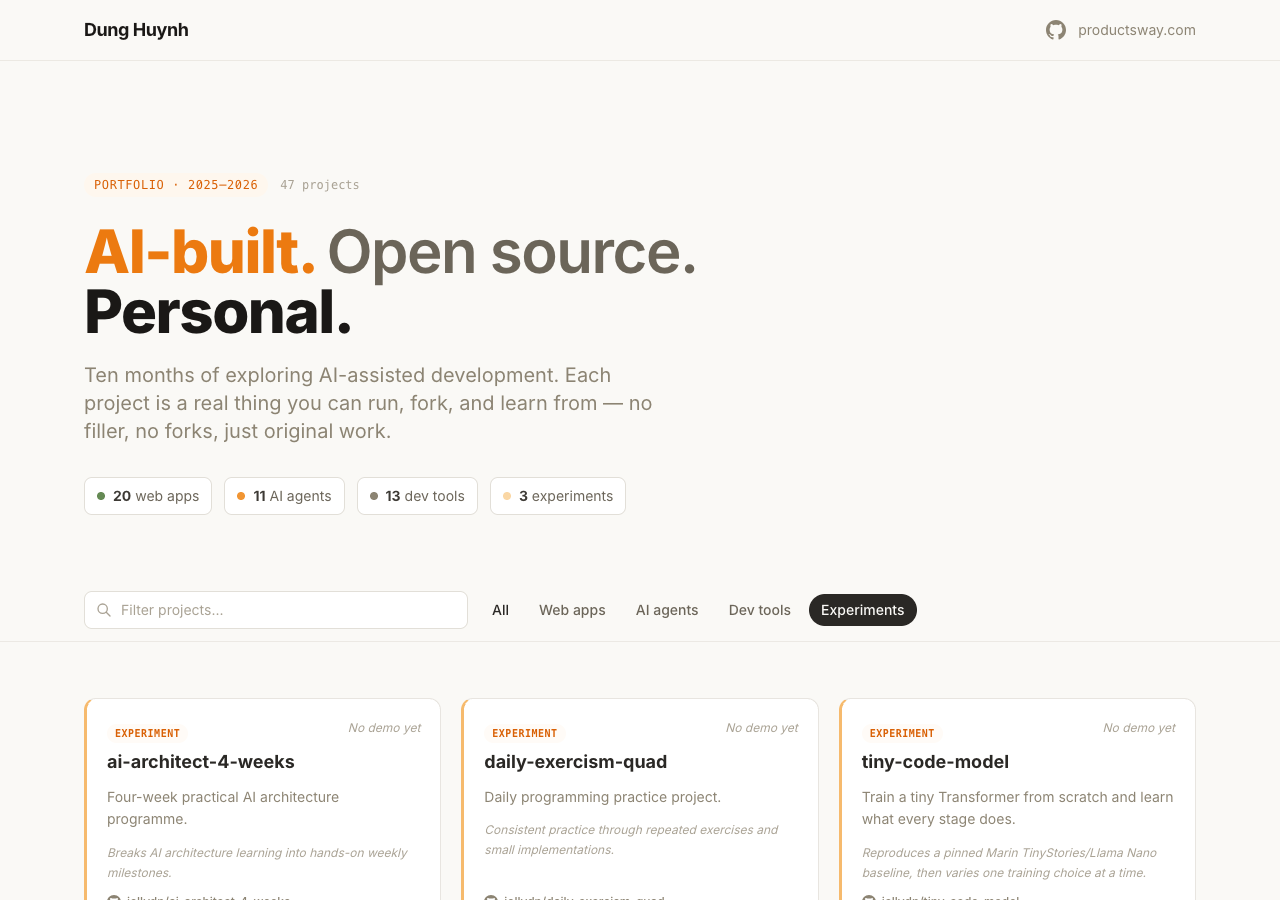
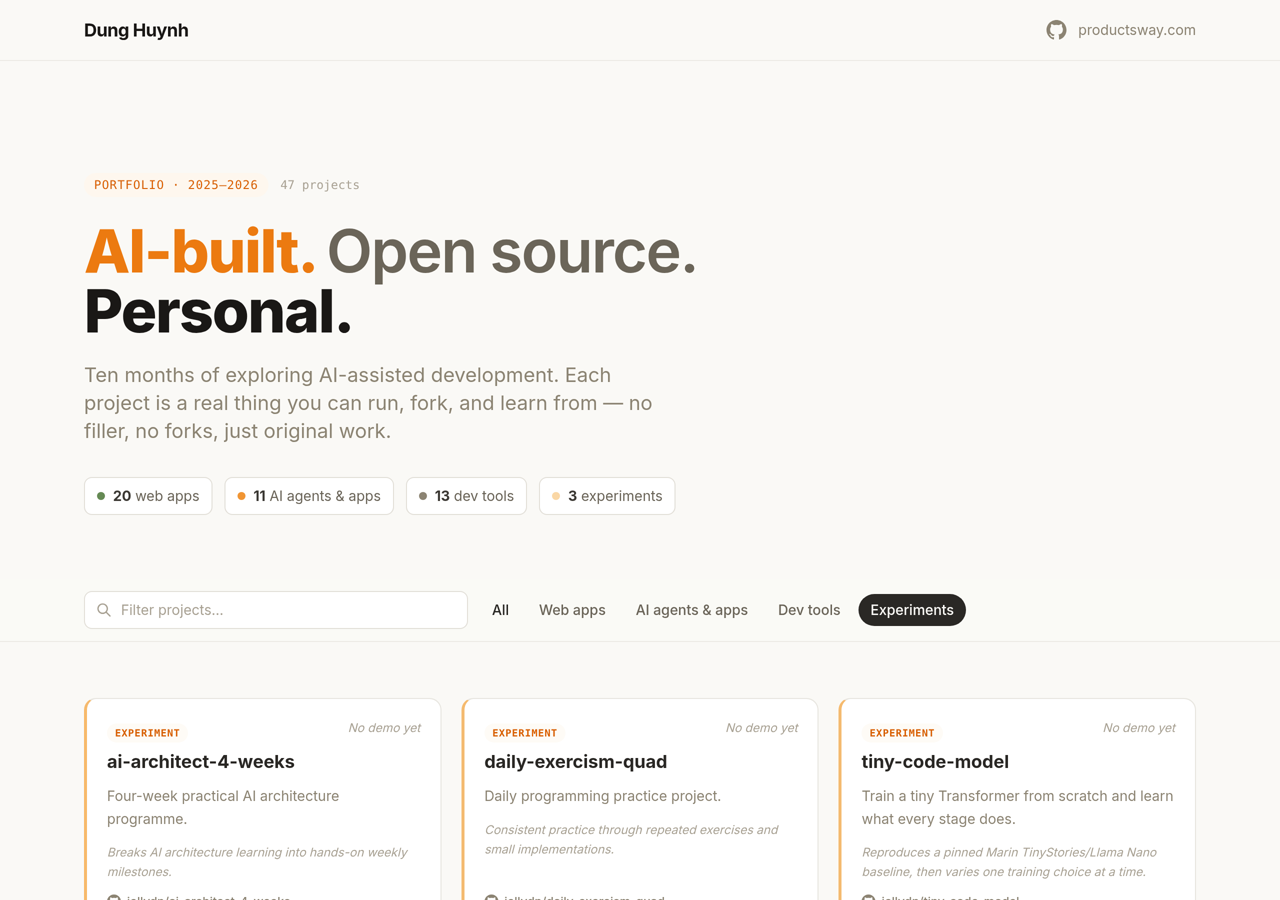
fix(catalog): align labels, walkthroughs, and rendered assets
Include AI apps in the category label without changing catalog records.
Correct the README count and clear retained filters in the demo steps.
Render deferred content before capturing static assets, verify image
bounds, and link the catalog source commit in the changelog.
Keep the explicit muse-frame WIP exception and historical search GIF.

Amp-Thread-ID: https://ampcode.com/threads/T-01a093a0-c7e7-77cf-9eb9-fceb67705bbf

diff --git a/showcase/features.html b/showcase/features.html
@@ -131,11 +131,11 @@
     <div class="feature-row reversed">
       <div class="feature-body">
         <h3>Four categories, one click each</h3>
-        <p class="lead">Every project lives in exactly one of four buckets — so "show me the AI agents" is a single click, not a puzzle.</p>
+        <p class="lead">Every project lives in exactly one of four buckets — so "show me the AI agents and apps" is a single click, not a puzzle.</p>
         <p>The collection is balanced across the ways people actually explore AI: user-facing apps you can try today, agents that do work for you, developer tools that make your editor smarter, and learning projects that show their work.</p>
         <ul class="tick-list">
           <li><svg fill="none" stroke="currentColor" stroke-width="2.5" viewBox="0 0 24 24"><path stroke-linecap="round" stroke-linejoin="round" d="M5 13l4 4L19 7"/></svg><strong>20 web apps</strong> — real, usable products</li>
-          <li><svg fill="none" stroke="currentColor" stroke-width="2.5" viewBox="0 0 24 24"><path stroke-linecap="round" stroke-linejoin="round" d="M5 13l4 4L19 7"/></svg><strong>11 AI agents</strong> — agents, providers & launchers</li>
+          <li><svg fill="none" stroke="currentColor" stroke-width="2.5" viewBox="0 0 24 24"><path stroke-linecap="round" stroke-linejoin="round" d="M5 13l4 4L19 7"/></svg><strong>11 AI agents &amp; apps</strong> — agents, providers, launchers &amp; image studios</li>
           <li><svg fill="none" stroke="currentColor" stroke-width="2.5" viewBox="0 0 24 24"><path stroke-linecap="round" stroke-linejoin="round" d="M5 13l4 4L19 7"/></svg><strong>13 dev tools</strong> — editors, CLIs & plugins</li>
           <li><svg fill="none" stroke="currentColor" stroke-width="2.5" viewBox="0 0 24 24"><path stroke-linecap="round" stroke-linejoin="round" d="M5 13l4 4L19 7"/></svg><strong>3 experiments</strong> — learning in the open</li>
         </ul>
@@ -144,9 +144,9 @@
         <div class="browser-frame">
           <div class="browser-frame-bar">
             <span class="browser-frame-dot"></span><span class="browser-frame-dot"></span><span class="browser-frame-dot"></span>
-            <span class="browser-frame-url">filter: AI agents</span>
+            <span class="browser-frame-url">filter: AI agents &amp; apps</span>
           </div>
-          <img src="screenshots/filter-ai.png" alt="The tracker filtered to the 11 AI agent projects" loading="lazy" width="1280" height="900">
+          <img src="screenshots/filter-ai.png" alt="The tracker filtered to the 11 AI-agent and AI-app projects" loading="lazy" width="1280" height="900">
         </div>
       </div>
     </div>
@@ -220,7 +220,7 @@
     <!-- AI agents -->
     <div class="category">
       <div class="category-head">
-        <span class="chip chip-ai">AI agents</span>
+        <span class="chip chip-ai">AI agents &amp; apps</span>
         <h3>11</h3>
         <span class="count">— agents, providers, launchers & memory</span>
       </div>
@@ -240,9 +240,9 @@
       <div class="browser-frame">
         <div class="browser-frame-bar">
           <span class="browser-frame-dot"></span><span class="browser-frame-dot"></span><span class="browser-frame-dot"></span>
-          <span class="browser-frame-url">filter: AI agents</span>
+          <span class="browser-frame-url">filter: AI agents &amp; apps</span>
         </div>
-        <img src="screenshots/filter-ai.png" alt="The tracker filtered to AI agents" loading="lazy" width="1280" height="900">
+        <img src="screenshots/filter-ai.png" alt="The tracker filtered to AI agents and apps" loading="lazy" width="1280" height="900">
       </div>
     </div>
 

diff --git a/showcase/how-it-works.html b/showcase/how-it-works.html
@@ -109,7 +109,7 @@
       <div class="workflow-body">
         <div class="step-num">1</div>
         <h3>Open the collection</h3>
-        <p>Land on the tracker and the full catalogue is right there — 47 projects, one glance, no login, no paywall. The header stat chips tell you the shape of the collection at a glance: <strong>20 web apps · 11 AI agents · 13 dev tools · 3 experiments</strong>.</p>
+        <p>Land on the tracker and the full catalogue is right there — 47 projects, one glance, no login, no paywall. The header stat chips tell you the shape of the collection at a glance: <strong>20 web apps · 11 AI agents &amp; apps · 13 dev tools · 3 experiments</strong>.</p>
         <p>The search box and filter pills stay pinned while you scroll, so the whole collection is always one interaction away.</p>
       </div>
       <div class="workflow-media">
@@ -118,7 +118,7 @@
             <span class="browser-frame-dot"></span><span class="browser-frame-dot"></span><span class="browser-frame-dot"></span>
             <span class="browser-frame-url">jellydn.github.io/personal-ai</span>
           </div>
-          <img src="screenshots/hero-web.jpg" alt="The full project grid of the personal-ai tracker — the whole collection in one glance" fetchpriority="high" width="1200" height="4941">
+          <img src="screenshots/hero-web.jpg" alt="The full project grid of the personal-ai tracker — the whole collection in one glance" fetchpriority="high" width="1200" height="4934">
         </div>
       </div>
     </div>
@@ -128,16 +128,16 @@
       <div class="workflow-body">
         <div class="step-num">2</div>
         <h3>Filter to what you care about</h3>
-        <p>Click <strong>AI agents</strong> and 11 agent projects appear — coding agents, provider plugins, launchers, image studios, and memory tools. Click <strong>Web apps</strong> and you get the products you can actually use today.</p>
+        <p>Click <strong>AI agents &amp; apps</strong> and 11 projects appear — coding agents, provider plugins, launchers, image studios, and memory tools. Click <strong>Web apps</strong> and you get the products you can actually use today.</p>
         <p>Each filter re-renders instantly. There's no separate page to load, no URL to remember — the grid just becomes the answer.</p>
       </div>
       <div class="workflow-media">
         <div class="browser-frame">
           <div class="browser-frame-bar">
             <span class="browser-frame-dot"></span><span class="browser-frame-dot"></span><span class="browser-frame-dot"></span>
-            <span class="browser-frame-url">filter: AI agents</span>
+            <span class="browser-frame-url">filter: AI agents &amp; apps</span>
           </div>
-          <img src="screenshots/filter-ai.png" alt="Filtering the tracker to AI agents" loading="lazy" width="1280" height="900">
+          <img src="screenshots/filter-ai.png" alt="Filtering the tracker to AI agents and apps" loading="lazy" width="1280" height="900">
         </div>
       </div>
     </div>
@@ -191,7 +191,7 @@
       <div class="workflow-media">
         <div class="phone-frame">
           <div class="phone-frame-notch"></div>
-          <img src="screenshots/mobile-web.jpg" alt="The personal-ai tracker on a phone, showing the responsive layout" loading="lazy" width="520" height="11082">
+          <img src="screenshots/mobile-web.jpg" alt="The personal-ai tracker in a narrow browser viewport, showing the responsive layout" loading="lazy" width="520" height="11097">
         </div>
       </div>
     </div>

diff --git a/showcase/index.html b/showcase/index.html
@@ -214,7 +214,7 @@
             <span class="browser-frame-dot"></span><span class="browser-frame-dot"></span><span class="browser-frame-dot"></span>
             <span class="browser-frame-url">github.com/jellydn/personal-ai</span>
           </div>
-          <img src="screenshots/demo/portfolio.png" alt="The personal-ai portfolio homepage showing a grid of 47 AI-built project cards" loading="lazy" width="1280" height="4941">
+          <img src="screenshots/demo/portfolio.png" alt="The personal-ai portfolio homepage showing a grid of 47 AI-built project cards" loading="lazy" width="1280" height="4934">
         </div>
         <figcaption class="gallery-caption">The tracker — 47 projects, one searchable grid</figcaption>
       </figure>
@@ -224,7 +224,7 @@
             <span class="browser-frame-dot"></span><span class="browser-frame-dot"></span><span class="browser-frame-dot"></span>
             <span class="browser-frame-url">jellydn.github.io/personal-ai/showcase/</span>
           </div>
-          <img src="screenshots/demo/showcase-home.png" alt="The showcase marketing site homepage" loading="lazy" width="1280" height="11361">
+          <img src="screenshots/demo/showcase-home.png" alt="The showcase marketing site homepage" loading="lazy" width="1280" height="17476">
         </div>
         <figcaption class="gallery-caption">Showcase home — the story in one scroll</figcaption>
       </figure>
@@ -234,7 +234,7 @@
             <span class="browser-frame-dot"></span><span class="browser-frame-dot"></span><span class="browser-frame-dot"></span>
             <span class="browser-frame-url">jellydn.github.io/personal-ai/showcase/how-it-works.html</span>
           </div>
-          <img src="screenshots/demo/how-it-works.png" alt="The how-it-works walkthrough page" loading="lazy" width="1280" height="7023">
+          <img src="screenshots/demo/how-it-works.png" alt="The how-it-works walkthrough page" loading="lazy" width="1280" height="16311">
         </div>
         <figcaption class="gallery-caption">How it works — the full journey, step by step</figcaption>
       </figure>
@@ -244,7 +244,7 @@
             <span class="browser-frame-dot"></span><span class="browser-frame-dot"></span><span class="browser-frame-dot"></span>
             <span class="browser-frame-url">jellydn.github.io/personal-ai/showcase/features.html</span>
           </div>
-          <img src="screenshots/demo/features.png" alt="The features deep-dive page" loading="lazy" width="1280" height="7870">
+          <img src="screenshots/demo/features.png" alt="The features deep-dive page" loading="lazy" width="1280" height="7891">
         </div>
         <figcaption class="gallery-caption">Features — every capability, explained</figcaption>
       </figure>

diff --git a/showcase/changelog.html b/showcase/changelog.html
@@ -107,21 +107,21 @@
     <div class="section-head">
       <span class="kicker">Ship log</span>
       <h2>Real changes, dated</h2>
-      <p>Newest first. Each entry records what actually landed, with the commit that shipped it — you can trace every line in the repository.</p>
+      <p>Newest first. Entries link to their source commits or describe a dated catalog refresh — you can trace the changes in the repository.</p>
     </div>
 
     <div class="changelog-list">
       <article class="changelog-entry">
         <div class="entry-meta">
           <span class="date-badge">2026-09-11</span>
-          <span class="entry-hash">catalog refresh</span>
+          <a class="entry-hash" href="https://github.com/jellydn/personal-ai/commit/ce1ba703eb8e1c44fc5de8fb7870d359d6e39bf3">ce1ba70</a>
         </div>
         <h3>Two AI apps and a kids' confidence app</h3>
         <ul>
           <li>Another dated pass over jellydn's GitHub: <strong>brave-buddy</strong> (a social-skills practice app for ages 6–12, with a live demo) joins web apps, while <strong>imagi</strong> (a native SwiftUI image studio) and <strong>muse-frame</strong> join AI apps.</li>
-          <li>The tracker is now 47 projects (20 web apps · 11 AI agents · 13 dev tools · 3 experiments) with 28 live demos. The window runs through September 2026.</li>
-          <li><strong>muse-frame</strong> was left out of the August pass as WIP and is listed now, alongside the other public originals.</li>
-          <li>Recaptured every showcase screenshot against the 47-project catalog — hero, the four filter views, both search states, the three full-page captures, the mobile/desktop full-page JPGs and the README shot — so the images match the counts they sit next to.</li>
+          <li>The tracker is now 47 projects (20 web apps · 11 AI agents &amp; apps · 13 dev tools · 3 experiments) with 28 live demos. The window runs through September 2026.</li>
+          <li><strong>muse-frame</strong> was left out of the August pass as WIP. It is now listed at the author's explicit request as an exception to that policy.</li>
+          <li>Recaptured the static showcase screenshots against the 47-project catalog — hero, the four filter views, both search states, four full-page PNGs, the mobile/desktop full-page JPGs and the README shot — so the images match the counts they sit next to. The older search animation is unchanged.</li>
           <li>Rebuilt the branded OG share card, which still carried the 40-project copy, and committed its layout as <code>docs/og-card.html</code> so it can be regenerated next time instead of recreated by hand.</li>
         </ul>
       </article>

diff --git a/index.html b/index.html
@@ -181,7 +181,7 @@ body { font-family: 'Inter', ui-sans-serif, system-ui, -apple-system, sans-serif
         </div>
         <div class="flex items-center gap-2 px-3 py-2 bg-white border border-ink-200 rounded-lg">
           <span class="w-2 h-2 rounded-full bg-ember-400"></span>
-          <span class="text-ink-600"><strong class="text-ink-800" data-cat="ai">11</strong> AI agents</span>
+          <span class="text-ink-600"><strong class="text-ink-800" data-cat="ai">11</strong> AI agents &amp; apps</span>
         </div>
         <div class="flex items-center gap-2 px-3 py-2 bg-white border border-ink-200 rounded-lg">
           <span class="w-2 h-2 rounded-full bg-ink-500"></span>
@@ -206,7 +206,7 @@ body { font-family: 'Inter', ui-sans-serif, system-ui, -apple-system, sans-serif
         <div class="flex gap-1.5 flex-wrap" id="filters">
           <button class="filter-pill active px-3 py-1.5 text-sm rounded-full font-medium" data-category="all">All</button>
           <button class="filter-pill px-3 py-1.5 text-sm rounded-full font-medium text-ink-600" data-category="web">Web apps</button>
-          <button class="filter-pill px-3 py-1.5 text-sm rounded-full font-medium text-ink-600" data-category="ai">AI agents</button>
+          <button class="filter-pill px-3 py-1.5 text-sm rounded-full font-medium text-ink-600" data-category="ai">AI agents &amp; apps</button>
           <button class="filter-pill px-3 py-1.5 text-sm rounded-full font-medium text-ink-600" data-category="dev">Dev tools</button>
           <button class="filter-pill px-3 py-1.5 text-sm rounded-full font-medium text-ink-600" data-category="learn">Experiments</button>
         </div>
@@ -326,7 +326,7 @@ document.querySelectorAll('[data-cat]').forEach(el => {
 
 const CATEGORY_STYLE = {
   web:   { color: 'moss',  border: 'border-l-moss-400',  badge: 'bg-moss-50 text-moss-700',     label: 'Web app' },
-  ai:    { color: 'ember', border: 'border-l-ember-400', badge: 'bg-ember-50 text-ember-700',   label: 'AI agent' },
+  ai:    { color: 'ember', border: 'border-l-ember-400', badge: 'bg-ember-50 text-ember-700',   label: 'AI agent / app' },
   dev:   { color: 'ink',   border: 'border-l-ink-400',   badge: 'bg-ink-100 text-ink-700',      label: 'Dev tool' },
   learn: { color: 'ember', border: 'border-l-ember-300', badge: 'bg-ember-50/50 text-ember-600', label: 'Experiment' }
 };

diff --git a/docs/images/README.md b/docs/images/README.md
@@ -9,7 +9,7 @@ A single wide shot of the portfolio homepage showing the hero, the filter bar,
 and the first two rows of project cards.
 
 `docs/images/demo.png` was captured for the 47-project catalog (20 web apps,
-11 AI agents, 13 dev tools, 3 experiments). Recapture it after a catalog change
+11 AI agents & apps, 13 dev tools, 3 experiments). Recapture it after a catalog change
 so the README screenshot keeps matching the live counts.
 
 ### Setup
@@ -33,15 +33,15 @@ so the README screenshot keeps matching the live counts.
 
 ### Sample input
 
-No input is required. For an alternative shot, click the **"AI agents"** filter
-pill to show only the AI-agent category (11 cards). This demonstrates category
+No input is required. For an alternative shot, click the **"AI agents & apps"** filter
+pill to show only the AI category (11 cards). This demonstrates category
 filtering. To demonstrate text search instead, type `rag` in the filter box to
 narrow to the RAG-related projects.
 
 ### Expected output
 
 - Hero headline: **"AI-built. Open source. Personal."**
-- Stat badges: **20 web apps**, **11 AI agents**, **13 dev tools**, **3 experiments**.
+- Stat badges: **20 web apps**, **11 AI agents & apps**, **13 dev tools**, **3 experiments**.
 - A responsive 3-column card grid (on desktop) with category badges, project
   names, descriptions, and demo links.
 - Cards have a colored left border keyed to their category and a hover lift
@@ -97,23 +97,35 @@ captures of the running site, so they go stale whenever the catalog does.
 Serve the repository root and drive Chrome with `agent-browser`
 (`set viewport <w> <h> <scale>`, then `screenshot [--full]`).
 
-### Two gotchas worth knowing
+### Render all content before capture
 
-1. **Full-page captures go blank below the first screens.** `index.html` and
-   `showcase/styles.css` use `content-visibility: auto` to defer off-screen
-   rendering, so an unscrolled full-page capture leaves those regions empty.
-   Injecting `* { content-visibility: visible !important; }` fixes it, and on
-   `index.html` also removes the `contain-intrinsic-size` placeholder padding
-   (the page's true height is ~4941px, not the ~5202px it reserves).
-2. **Do not use that override on `showcase/how-it-works.html`.** It makes the
-   page's 11,509px-tall phone-frame image contain itself, inflating the document
-   from 7,023px to 16,548px and capturing a layout that is not what visitors
-   see. Capture that page with no override.
+Deferred rendering, lazy images, and scroll-driven animations can leave blank
+regions in full-page captures. Apply this capture-only override on every page:
 
-Both gotchas are inherited from the existing assets: the committed captures
-predate this note and contain the same deferred-rendering gaps.
+```js
+const style = document.createElement('style');
+style.textContent = '* { content-visibility: visible !important; animation: none !important; transition: none !important; }';
+document.head.append(style);
+document.querySelectorAll('img').forEach(image => image.loading = 'eager');
+await document.fonts.ready;
+await Promise.all([...document.images].map(image => image.decode()));
+```
 
-### Verifying a capture without eyeballing it
+Wait for two animation frames before capture. The walkthrough becomes taller
+when its phone image renders at its full aspect ratio; this is real content,
+not a recursive image. Do not preserve deferred placeholder heights.
+
+Capture at 2×, then downsample to the asset widths in the table. Keep the README
+capture at 2×. Capture the catalog images first, then the features and walkthrough
+pages, then the showcase home, which embeds those images. The search GIF is an
+older interaction recording, not part of this static-image refresh.
+
+Check the raw screenshot bounds before resizing. Some browser versions produce
+a full-page canvas twice as wide and tall as the rendered content at 2×. In that
+case, crop to the rendered bounds first; resizing the whole canvas preserves
+empty right and bottom regions.
+
+### Verify dimensions and visible content
 
 Declared dimensions in the HTML must match the files. `width`/`height`
 attributes are set from the real asset sizes, so after recapturing, compare each
@@ -123,10 +135,9 @@ attributes are set from the real asset sizes, so after recapturing, compare each
 sips -g pixelWidth -g pixelHeight showcase/screenshots/<asset>
 ```
 
-`mac-ocr` can confirm a capture shows what it should — for example that
-`hero.png` reads back "47 projects" and the 20/11/13/3 stat chips. It is not
-reliable on very tall images (a 520×11,082 file returns nothing); crop bands
-with ffmpeg and OCR those instead.
+Inspect each capture, including crops from tall images, for blank cards, missing
+images, clipped labels, and stale counts. OCR can help check the 47-project total
+and the 20/11/13/3 chips, but does not replace visual inspection.
 
 ### Regenerating the OG share card
 

diff --git a/docs/demo-script.md b/docs/demo-script.md
@@ -19,11 +19,11 @@ categories with a hero summary and live filter bar.
 - The page renders a responsive card grid, each card showing the project name, a
   one-line description, the engineering approach, and a demo link when one
   exists.
-- Click the "AI agents" category pill: the grid updates to the 11 AI-agent
+- Click the "AI agents & apps" category pill: the grid updates to the 11 AI
   projects in real time, with no page reload.
-- Type `rag` in the filter box: the grid narrows to the matching projects
+- Click "All", then type `rag` in the filter box: the grid narrows to the matching projects
   (`rag-blog`) to demonstrate text search.
-- Click the "Dev tools" filter pill: the grid updates to 13 developer-tool
+- Clear the search and click the "Dev tools" filter pill: the grid updates to 13 developer-tool
   projects, each with a category-colored left border.
 - Clear the filter to return to all 47 projects. An empty-state message appears
   if a search matches nothing.
@@ -49,8 +49,8 @@ reading 47 separate READMEs.
 ## Suggested recording flow
 
 1. Show the full homepage (3s).
-2. Click the "AI agents" category pill, watch the grid filter (5s).
-3. Type `rag` in the search box to demo text search, then clear it (5s).
+2. Click the "AI agents & apps" category pill, watch the grid filter (5s).
+3. Click "All", type `rag` in the search box, then clear it (5s).
 4. Hover a card to show the lift effect, click a demo link to open a live
    project (10s).
 5. Resize the browser narrow to show the responsive single-column layout (5s).

diff --git a/README.md b/README.md
@@ -115,8 +115,8 @@ the Amp sandbox is generated automatically by the sandbox manager, is ignored by
 2. **User searches** by typing `rag` in the filter box. The grid narrows to the
    matching projects (`rag-blog`) in real time — no network
    request, no reload.
-3. **User clicks** the "AI agents" filter pill. The grid updates to the 9
-   agent-related projects.
+3. **User clears** the search and clicks the "AI agents & apps" filter pill.
+   The grid updates to the 11 AI-agent and AI-app projects.
 4. **User clicks** a "Demo →" badge on a card to open that project's live demo
    in a new tab, or the repo link to view its source on GitHub.
 5. **User clears** the search and returns to "All" to browse the full catalog.
